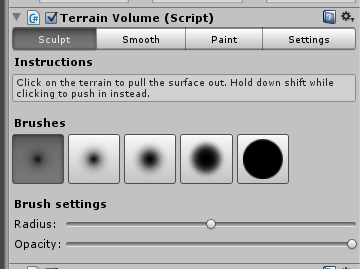
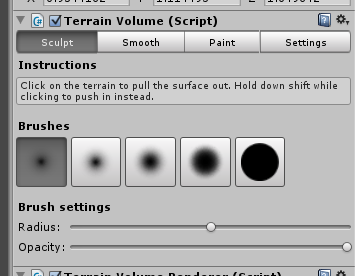
Work on user manual.

Changed region(s): [[0.0, 0.0, 1.0, 1.0], [0.7746, 0.5948, 0.8056, 0.6245]]

diff --git a/DocSrc/UserInterface.cs b/DocSrc/UserInterface.cs
@@ -8,7 +8,7 @@
  *
  * A new terrain volume or colored cubes volume can be added to the scene via the main menu.
  *
- * Picture of menu here...
+ * \image html CreateNewVolume.png "Creating a new volume through the main menu"
  *
  * This adds a new game object to the scene and automatically attaches Volume, Volume Renderer, and VolumeCollider components. It also creates a small volume data with just the floor filled in so that you have something from which to start your editing. Note that you are not given any options during the creation process (it is intended to be a simple one-click-and-you're-done' interface), but you can later create bigger/different volume data as discussed in the section on \ref secNewVolData.
  *
@@ -16,11 +16,11 @@
  *
  * Because a %Cubiquity volume is just a GameObject with some specific components attached, it can be transformed much like any other object in Unity. Try selecting a volume and clicking one of the following buttons on the toolbar:
  *
- * Picture of toolbar
+ * \image html TransformControls.png "The standard controls can be used to translate, rotate and scale your volume"
  *
  * You should see the corresponding transform gizmo appear on the volume and you can use this to manipulate it. As you drag the mouse you will see the transform changing in the inspector, and you can also also enter the desired transform directly.
  *
- * Picture of transformed volume with gizmo and inspector highlighted.
+ * \image html TransformedVolume.jpg "A volume after undergoing some transformations, with the transform gizmo and transform component highlighted."
  *
  * \section secEditVolumes Editing Volumes
  *
@@ -30,13 +30,13 @@
  *
  * When a terrain volume is selected you should see the 'Terrain Volume (Script)' component in the inspector.
  *
- * Picture here
+ * \image html EditingTools.png "Click the tool buttons to open the corresponding options"
  *
  * You can cycle through the tabs to access the various functionality which is available:
  *
  * \subsubsection secSculptMode Sculpt Mode
  *
- * Picture here
+ * \image html SculptTools.png "Sculpt mode options for changing the terrain shape."
  *
  * This mode is used to make most changes to the shape of the terrain. You can choose the desired brush (gentle vs. sharp falloff) and set the brush's radius. The 'Opacity' setting controls how quickly the changes are applied, so having the slider to the left will allow finer control than having to the right.
  *
@@ -44,7 +44,7 @@
  *
  * \subsubsection secSmoothMode Smooth Mode
  *
- * Picture here
+ * \image html SmoothTools.png "Smooth mode options (currently the same as for sculpting)"
  *
  * The smooth mode is used to eliminate jagged edges and sharp features on the terrain, as well as softening the boundary between different textures. It does this by averaging together a voxel with it's neighbours - a  kind of 3D equivalent to the 'blur' operation found in many 2D image editors. It is again possible to change the falloff, radius, and opacity of the brush performing the smoothing.
  *
@@ -52,13 +52,22 @@
  *
  * Textures can be applied to the terrain by using Cubiquity's paint mode.
  *
- * Picture here
+ * \image html PaintTools.png "Paint mode options for applying textures to the terrain."
  *
  * Note that the range of available textures is defined by the currently applied material, and this can be changed via \ref secRendererComp as discussed later. The textures are not simply painted onto the mesh but are instead painted into the volume - i.e. the brush is not a circle but a sphere which also changes the texture of underground voxels. You can see the effect of this if you choose a large brush, paint part of the terrain, and then dig into the part which you have painted.
  *
  * \subsubsection secSettingsMode Settings Mode
  *
+ * Currently the only setting which is exposed is the volume data which is being rendered. You can drag new volume data onto this field, or click the small circle to select from a pop-up window. More settings will be exposed in future versions of Cubiquity.
+ *
+ * \image html SettingsTools.png "Settings currently lets you change the volume data which is being used."
+ *
  * \subsection secEditColCubesVolumes Editing Colored Cubes Volumes
+ *
+ * The built in editing capabilities of the colored cubes volume are currently very basic compared to those of the terrain volume, and it is expected that users will instead generate their volume in external applications or via other means (see LINK HERE for various options). However you can use them for making small adjustments.
+ *
+ * Picture here
+ *
  * \section secOtherComps Other Volume Components
  * \subsection secRendererComp The Volume Renderer
  * \subsection secColliderComp The Volume Collider
